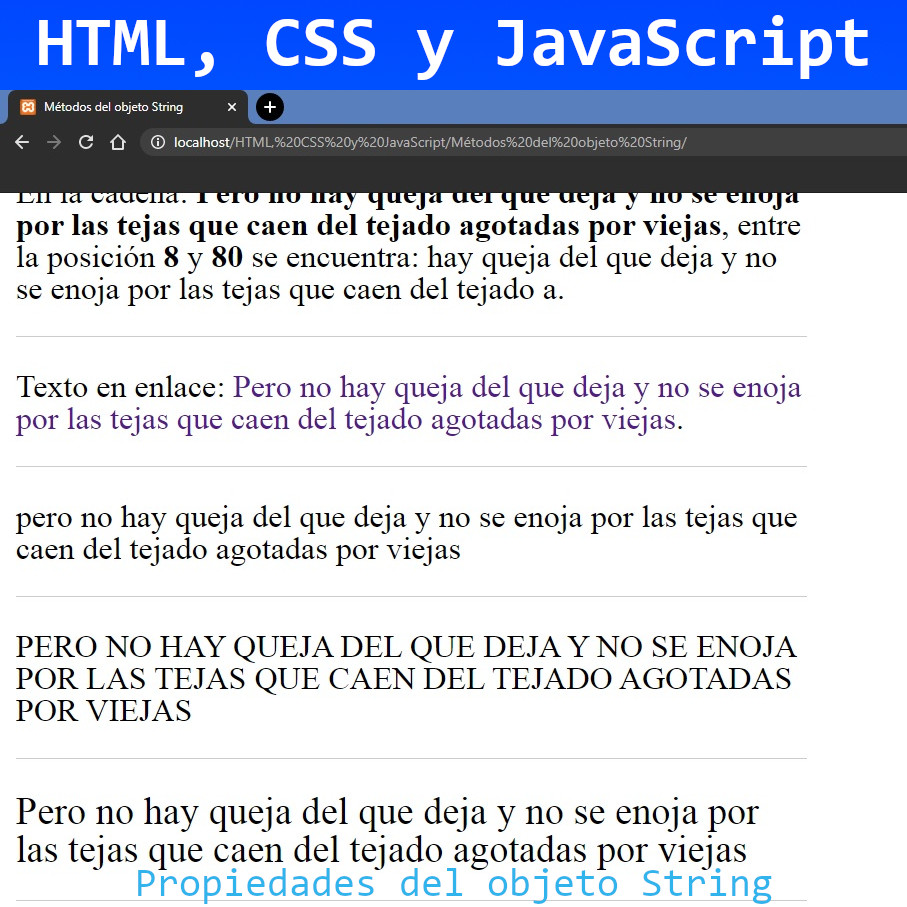
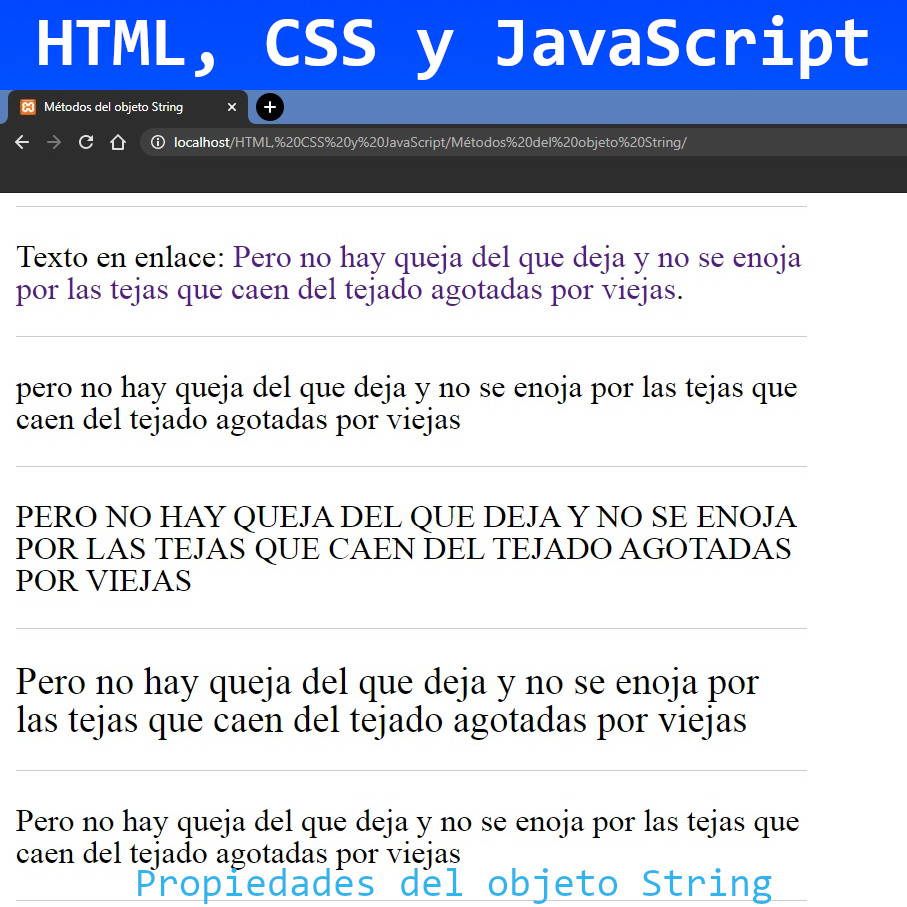
Método del objeto String
Método del objeto String en JavaScript

diff --git a/HTML, CSS y JavaScript/Métodos del objeto String/js/funciones.js b/HTML, CSS y JavaScript/Métodos del objeto String/js/funciones.js
@@ -49,3 +49,10 @@ var grande = cadena.big();
 document.write(grande);
 // SALTO DE LÍNEA
 document.write("<hr>");
+// MOSTRAR TEXTO EN MENOR TAMAÑO
+// disminuye tamaño de texto
+var peque = cadena.small();
+// MOSTRAR EN PANTALLA
+document.write(peque);
+// SALTO DE LÍNEA
+document.write("<hr>");
